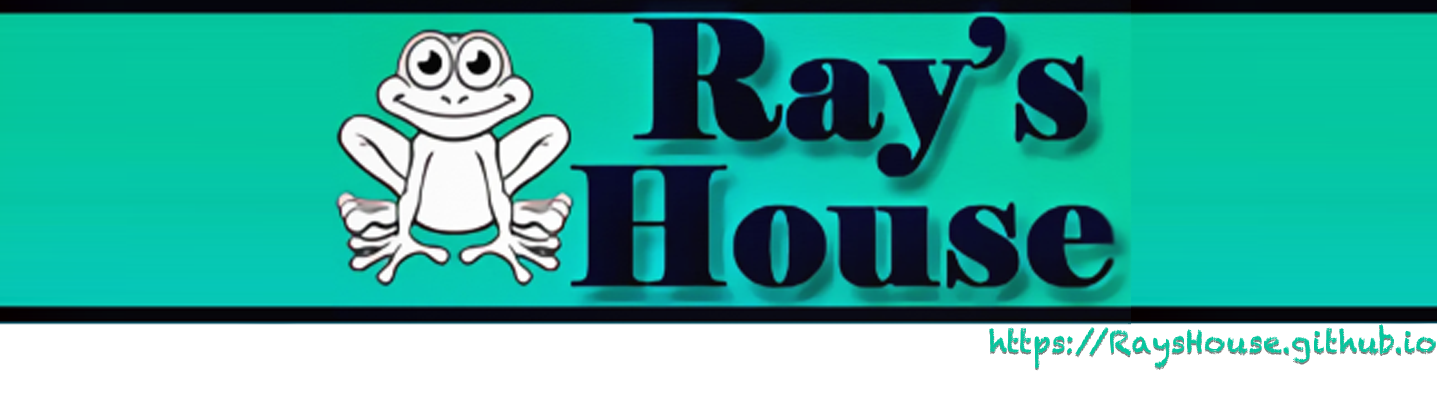
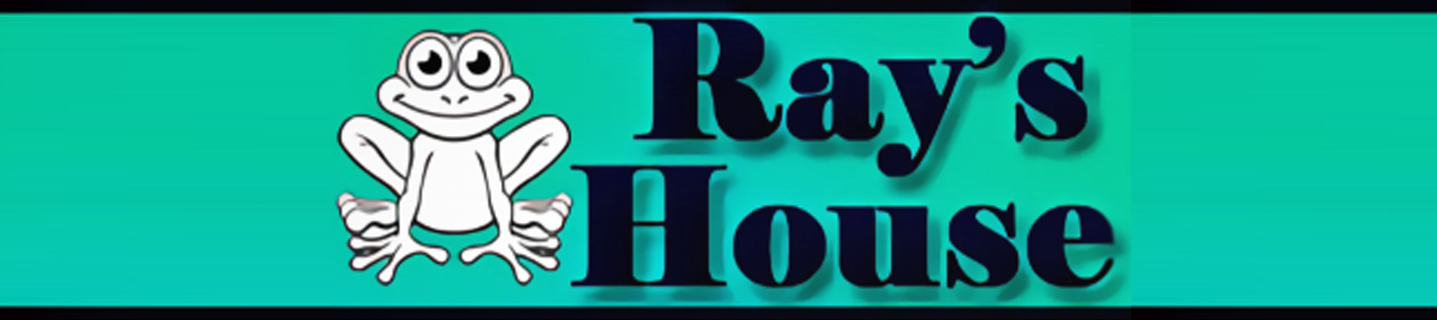
Site updates fixed css

diff --git a/raystylesheet.css b/raystylesheet.css
@@ -1,3 +1,22 @@
 body {
     background-color: aquamarine;
+    font-family: sans-serif;
+    color: rgb(237, 248, 249);
+}
+
+a
+{
+    color: aquamarine;
+}
+
+#maincontent {
+  margin: auto;
+  background-image: url('SiteImages/divbg.png');
+  background-repeat: no-repeat;
+  background-size: 200% 100%;
+  height: 1000px;
+  width: 900px;
+  background-position-x: center;
+  text-align: center;
+  overflow: auto; 
 }

diff --git a/index.html b/index.html
@@ -4,5 +4,10 @@
     <link rel="stylesheet" href="raystylesheet.css">
 </head>
 <body>
-    <img src="SiteImages/Banner.png">
+    <div id="maincontent">
+            <img src="SiteImages/Banner.png" width="900" height="200">
+            <p> <a href="index.html">Home</a> <a href="temp">Facebook Page</a>  </p>
+            <h2>Welcome to the Ray's House Foster Home Official Site!</h2>
+    </div>
+
 </body>
